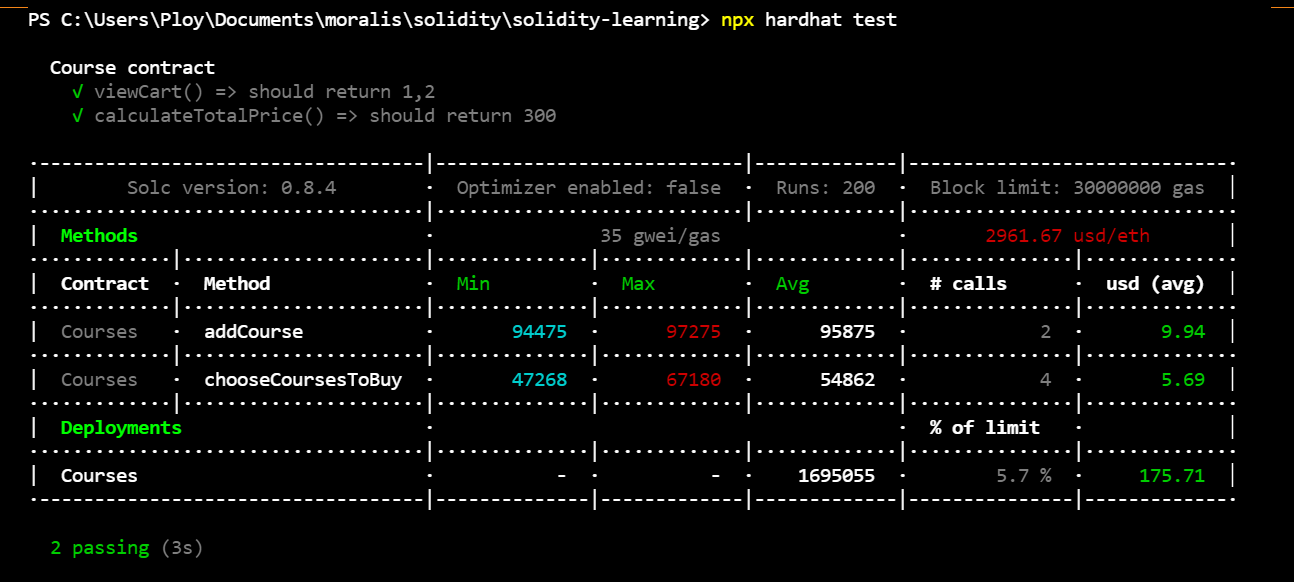
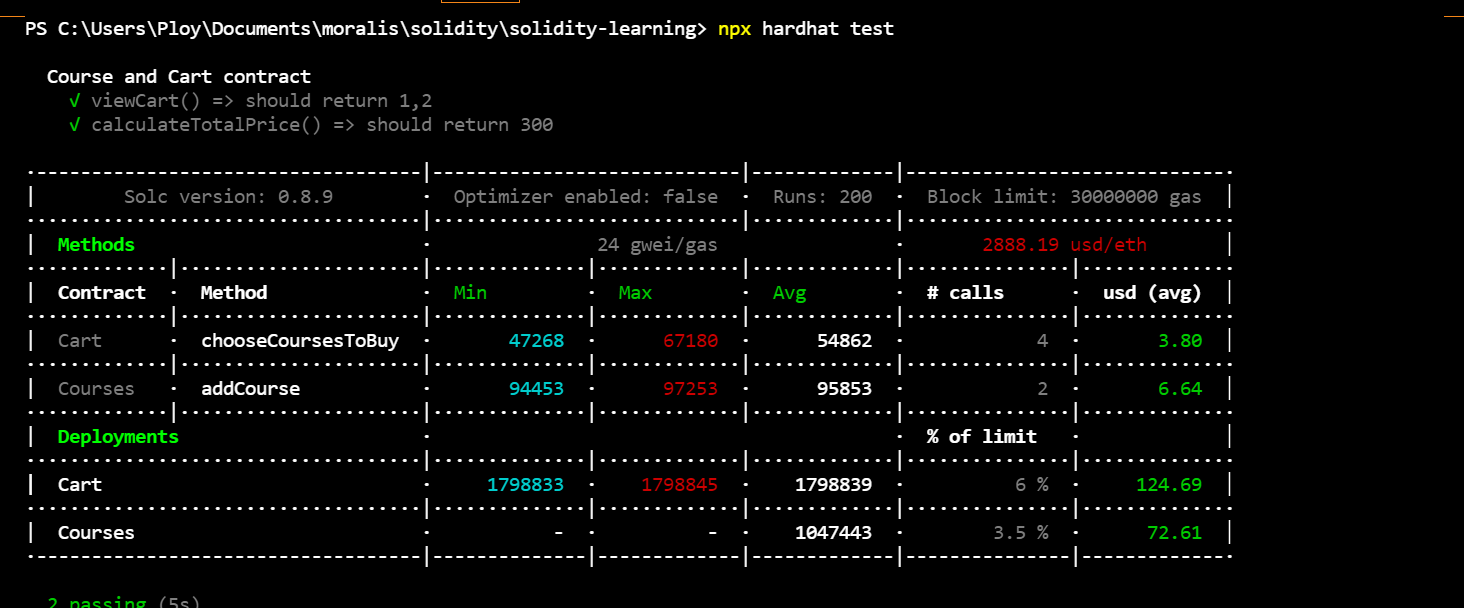
edit readme

diff --git a/test/test.js b/test/test.js
@@ -5,8 +5,8 @@ const { deepEql } = require("deep-eql");
   describe("Course and Cart contract", function () {
     
     before(async function () {
-      this.Course = await ethers.getContractFactory('Courses');
-      this.Cart = await ethers.getContractFactory('Cart');
+      this.Course = await hre.ethers.getContractFactory('Courses');
+      this.Cart = await hre.ethers.getContractFactory('Cart');
     });
   
     beforeEach(async function () {

diff --git a/hardhat.config.js b/hardhat.config.js
@@ -14,7 +14,7 @@ require("dotenv").config();
 module.exports = {
   solidity: "0.8.9",
   gasReporter: {
-    enabled: (process.env.REPORT_GAS) ? true : false,
+    enabled: (process.env.REPORT_GAS) ? false : true,
     currency: "USD",
     coinmarketcap: process.env.COINMARKETCAP_API_KEY,
     excludeContracts: ["contracts/mocks/", "contracts/libraries/"],

diff --git a/README.md b/README.md
@@ -3,8 +3,13 @@
 
 # Solidity Learning
 > This project is for practice solidity with hardhat and testing contract with chai. The main contract is 'Courses' contract which only owner can create course and update.The other people will interact with 'Cart' contract which need to choose index of course to cart array and then make the payment of total price of courses in the cart.The 'Courses' contract will act as parent of 'Cart' contract.
-You will learn about struct, array, map, inherit, event and so on from this project.
+You will learn about struct, array, map, inherit, custom error and so on from this project.
 
+```markdown
+/contracts
+	course.sol
+	cart.sol
+```
 *I currently update this project everyday on branch dev and remain branch main as stable version.*
 
 ## Prerequisites
@@ -97,7 +102,7 @@ npx hardhat coverage
 
 ### Running the tests
 
-You can test the smart contract and view gas usage compare with currency on each testing function by hardhat gas reporter plugin. About setting currency for gas reporter is optional, you can get API KEY from (coinmarketcap pro)[https://pro.coinmarketcap.com/signup/] and then set credential *COINMARKETCAP_API_KEY* in .env file and then config the currency name in the hardhat.config.js.
+You can test the smart contract and view gas usage compare with currency on each testing function by hardhat gas reporter plugin. About setting currency for gas reporter is optional, you can get API KEY from (coinmarketcap pro)[https://pro.coinmarketcap.com/signup/] and then set credential *COINMARKETCAP_API_KEY* in .env file and then config the currency name in the `hardhat.config.js`.
 
 ```shell
 npx hardhat test
